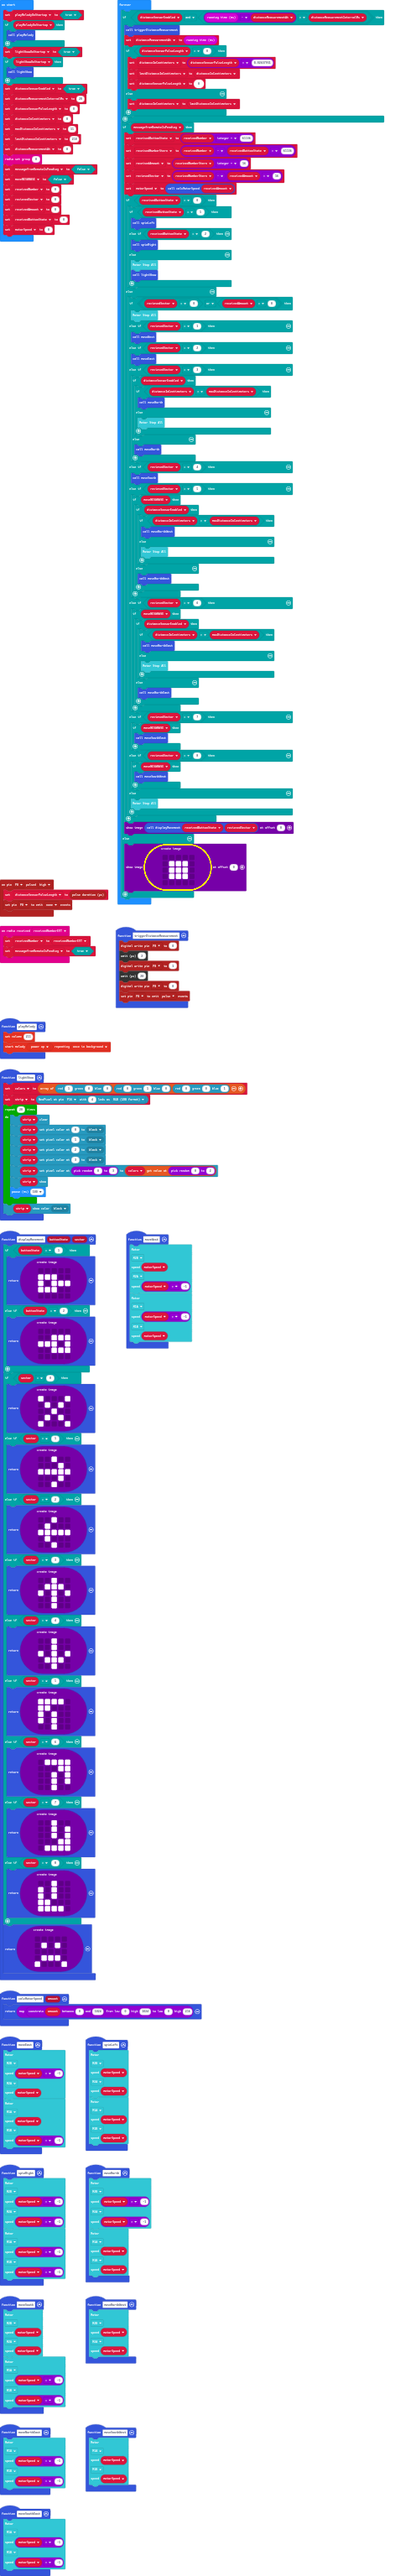
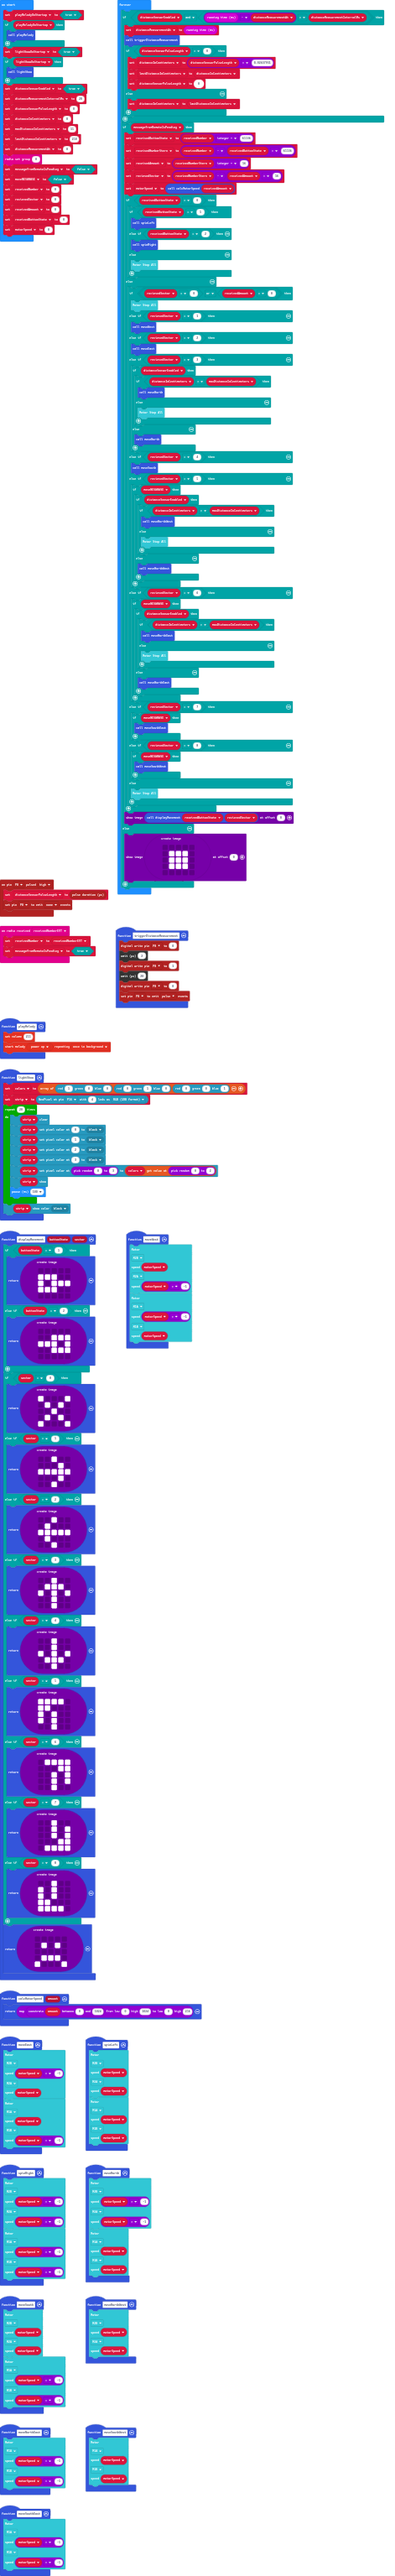
No LightShow on emergency stop (Buttons A+B)

Changed region(s): [[0.2972, 0.0928, 0.7431, 0.3712], [0.2972, 0.0, 0.5648, 0.0309]]

diff --git a/main.ts b/main.ts
@@ -283,8 +283,8 @@ let receivedButtonState = 0
 motorSpeed = 0
 basic.forever(function () {
     if (distanceSensorEnabled && input.runningTime() - distanceMeasurementAt > distanceMeasurementIntervalMs) {
-        triggerDistanceMeasurement()
         distanceMeasurementAt = input.runningTime()
+        triggerDistanceMeasurement()
         if (distanceSensorPulseLength > 0) {
             distanceInCentimeters = distanceSensorPulseLength * 0.02637931
             lastDistanceInCentimeters = distanceInCentimeters
@@ -306,7 +306,6 @@ basic.forever(function () {
                 spinRight()
             } else {
                 robotbit.MotorStopAll()
-                lightShow()
             }
         } else {
             if (recievedSector == 0 || receivedAmount == 0) {
